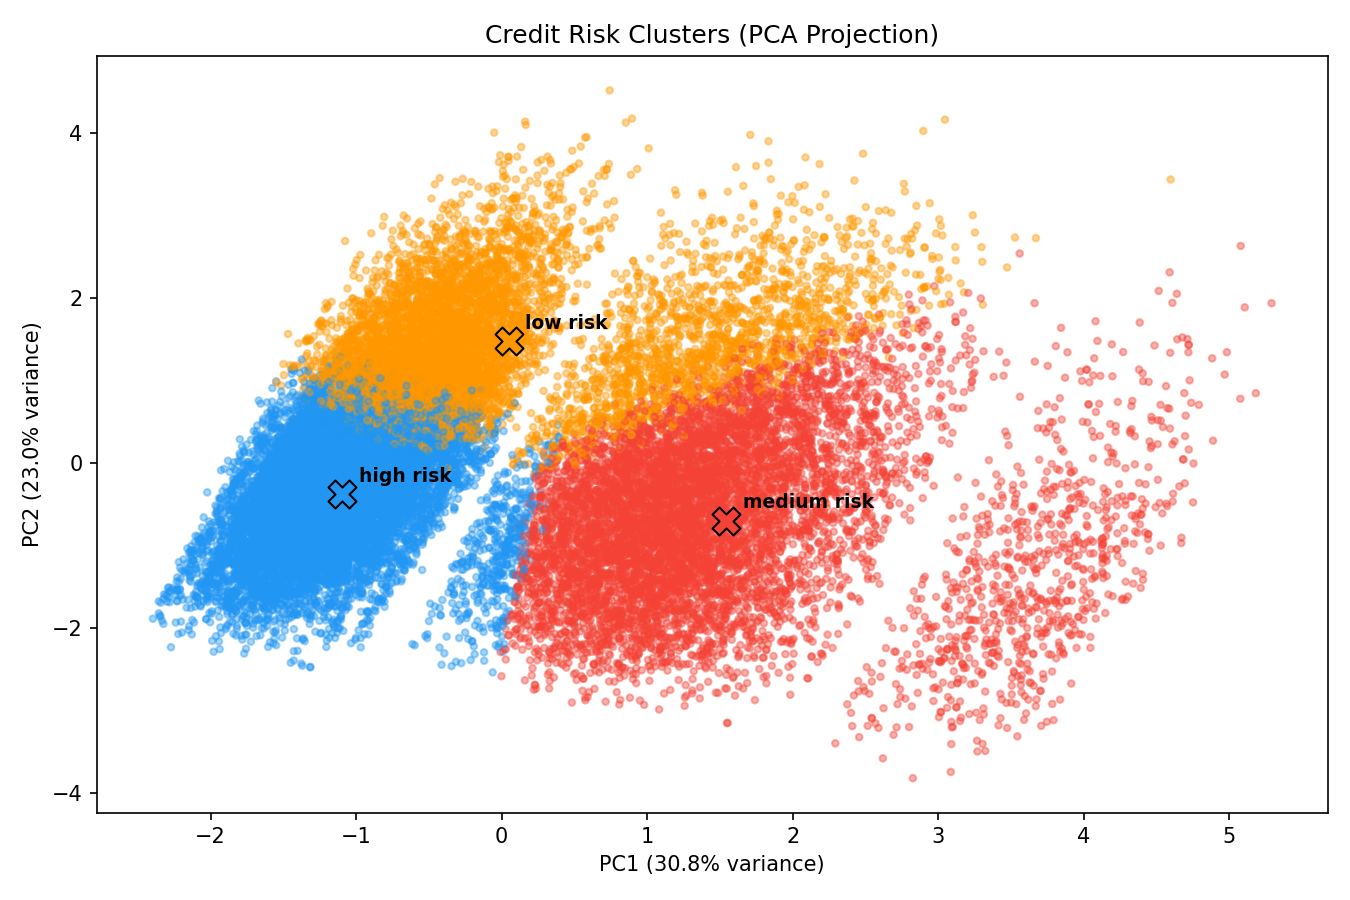
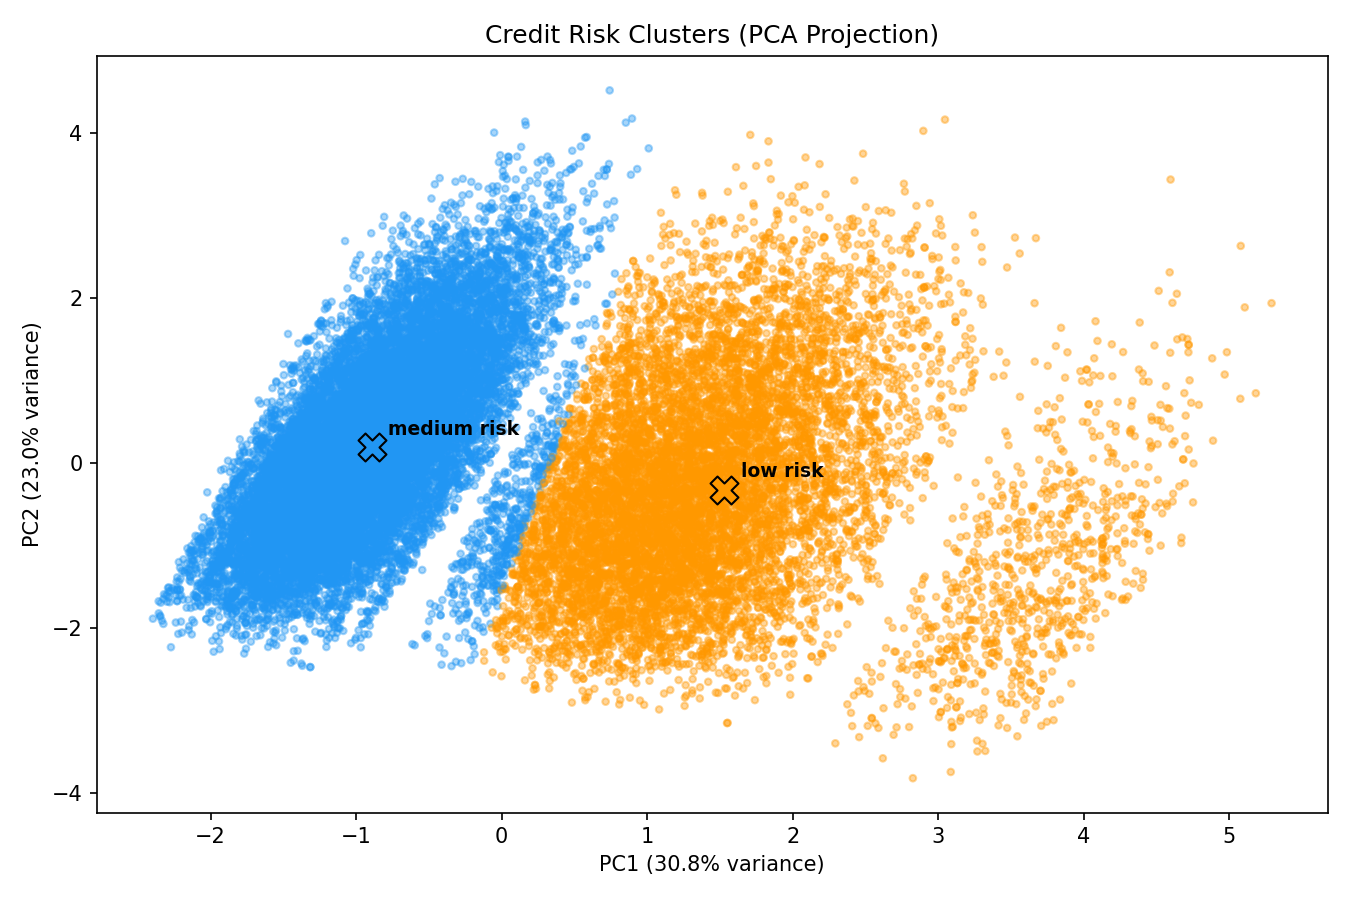
fix: resolve path, display, and risk score issues in cluster_models.py

Changed region(s): [[0.1867, 0.1556, 0.9022, 0.84], [0.84, 0.3111, 0.8711, 0.3422]]

diff --git a/src/cluster_models.py b/src/cluster_models.py
@@ -1,8 +1,8 @@
-import os
 from pathlib import Path
+import random
+import numpy as np
 import pandas as pd
 import matplotlib.pyplot as plt
-from IPython.display import display
 from sklearn.cluster import KMeans
 from sklearn.preprocessing import StandardScaler
 from sklearn.metrics import silhouette_score
@@ -11,7 +11,11 @@ from scipy.stats import zscore
 import joblib
 
 # define paths
-base_dir = Path(__file__).resolve().parent.parent
+try:
+    base_dir = Path(__file__).resolve().parent.parent
+except NameError:
+    # __file__ is not defined in Jupyter notebooks
+    base_dir = Path.cwd().parent
 artifacts_dir = base_dir / "artifacts"
 figures_dir = base_dir / "reports" / "figures"
 data_path = base_dir / "data" / "processed" / "cleaned_dataset.csv"
@@ -53,11 +57,36 @@ X = df[selected_features].copy()
 scaler = StandardScaler()
 X_scaled = scaler.fit_transform(X)
 
-# choose number of clusters (starting point)
-k = 3
+# find optimal k using elbow method + silhouette scores
+inertia = []
+sil_scores = []
+k_range = range(2, 10)
+
+for k in k_range:
+    km = KMeans(n_clusters=k, random_state=42, n_init=10)
+    labels = km.fit_predict(X_scaled)
+    inertia.append(km.inertia_)
+    sil_scores.append(silhouette_score(X_scaled, labels))
+
+fig, axes = plt.subplots(1, 2, figsize=(12, 4))
+axes[0].plot(k_range, inertia, marker='o')
+axes[0].set_title("Elbow Method")
+axes[0].set_xlabel("Number of Clusters (k)")
+axes[0].set_ylabel("Inertia")
+
+axes[1].plot(k_range, sil_scores, marker='o', color='orange')
+axes[1].set_title("Silhouette Scores")
+axes[1].set_xlabel("Number of Clusters (k)")
+axes[1].set_ylabel("Silhouette Score")
+
+plt.tight_layout()
+plt.savefig(figures_dir / "optimal_k.png")
+plt.close()
+
+optimal_k = k_range[sil_scores.index(max(sil_scores))]
 
 # train kmeans
-kmeans = KMeans(n_clusters=k, random_state=42, n_init=10)
+kmeans = KMeans(n_clusters=optimal_k, random_state=42, n_init="auto")
 clusters = kmeans.fit_predict(X_scaled)
 
 # evaluate clustering
@@ -86,8 +115,14 @@ risk_cols = ["loan_int_rate", "loan_amnt", "person_income",
              "person_emp_length", "cb_person_cred_hist_length"]
 
 cc = cluster_centers[risk_cols].copy()
+
+# note: zscore is applied across k cluster centers only — with small k this
+# is sensitive to extreme centers; revisit if k or data distribution changes
 cc_z = cc.apply(zscore)
 
+# person_age is included in clustering features to capture demographic segments,
+# but excluded from the risk score — age alone is not a direct credit risk driver
+# and including it could introduce age-based bias into the risk ranking.
 cluster_centers["risk_score"] = (
      cc_z["loan_int_rate"]
    + cc_z["loan_amnt"]
@@ -99,13 +134,15 @@ cluster_centers["risk_score"] = (
 # sort clusters by risk
 cluster_centers = cluster_centers.sort_values("risk_score")
 
-# assign names
-names = ["low risk", "medium risk", "high risk"]
-cluster_name_map = {
-    0: "high risk",
-    1: "low risk",
-    2: "medium risk"
-}
+# assign names based on sorted risk score
+risk_labels = ["low risk", "medium risk", "high risk", "very high risk",
+               "very low risk", "moderate-low risk", "moderate-high risk",
+               "extreme risk", "minimal risk"]
+names = risk_labels[:optimal_k]
+cluster_name_map = {}
+
+for i, cluster_id in enumerate(cluster_centers["cluster"]):
+    cluster_name_map[cluster_id] = names[i]
 
 # apply names
 df["cluster_name"] = df["cluster"].map(cluster_name_map)
@@ -115,8 +152,8 @@ cluster_profiles["cluster_name"] = cluster_profiles.index.map(cluster_name_map)
 cluster_profiles = cluster_profiles.reset_index()
 
 # save outputs
-df[["cluster", "cluster_name"]].to_csv("artifacts/cluster_labels.csv", index=False)
-cluster_profiles.to_csv("artifacts/cluster_profiles.csv", index=False)
+df[["cluster", "cluster_name"]].to_csv(artifacts_dir / "cluster_labels.csv", index=False)
+cluster_profiles.to_csv(artifacts_dir / "cluster_profiles.csv", index=False)
 
 # display styled profile table in notebook
 summary = cluster_profiles.copy()
@@ -124,8 +161,18 @@ summary.index = summary["cluster_name"]
 summary = summary.drop(columns=["cluster", "cluster_name"])
 summary.columns = [c.replace("_", " ").title() for c in summary.columns]
 
-print("\ncluster profiles:")
-print(cluster_profiles)
+try:
+    from IPython import get_ipython
+    if get_ipython() is not None:
+        display(summary.style
+            .format("{:.2f}")
+            .background_gradient(cmap="RdYlGn_r", axis=0)
+            .set_caption("Cluster Profiles — Mean Feature Values"))
+    else:
+        raise RuntimeError("not in notebook")
+except Exception:
+    print("\nCluster Profiles — Mean Feature Values")
+    print(summary.to_string(float_format="{:.2f}".format))
 
 # pca visualisation
 pca = PCA(n_components=2)
@@ -134,7 +181,7 @@ centers_pca = pca.transform(kmeans.cluster_centers_)
 
 palette = ["#2196F3", "#FF9800", "#F44336", "#4CAF50",
            "#9C27B0", "#00BCD4", "#FF5722", "#607D8B", "#E91E63"]
-colors = {i: palette[i] for i in range(k)}
+colors = {i: palette[i] for i in range(optimal_k)}
 color_arr = [colors[c] for c in clusters]
 
 plt.figure(figsize=(9, 6))
@@ -152,5 +199,5 @@ plt.title("Credit Risk Clusters (PCA Projection)")
 plt.xlabel(f"PC1 ({explained[0]*100:.1f}% variance)")
 plt.ylabel(f"PC2 ({explained[1]*100:.1f}% variance)")
 plt.tight_layout()
-plt.savefig("reports/figures/cluster_pca.png", dpi=150)
+plt.savefig(figures_dir / "cluster_pca.png", dpi=150)
 plt.close()
